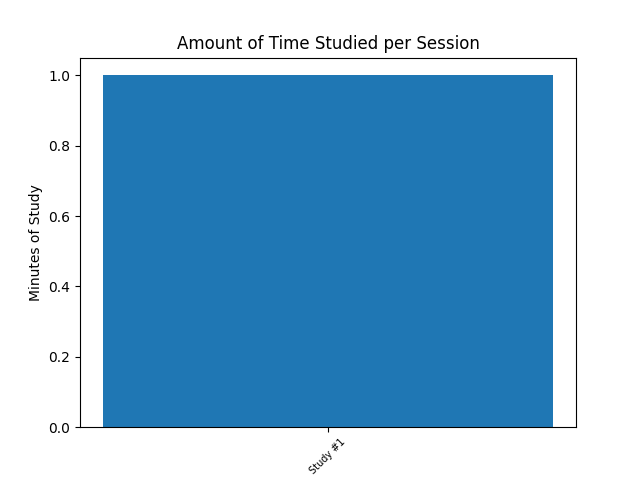
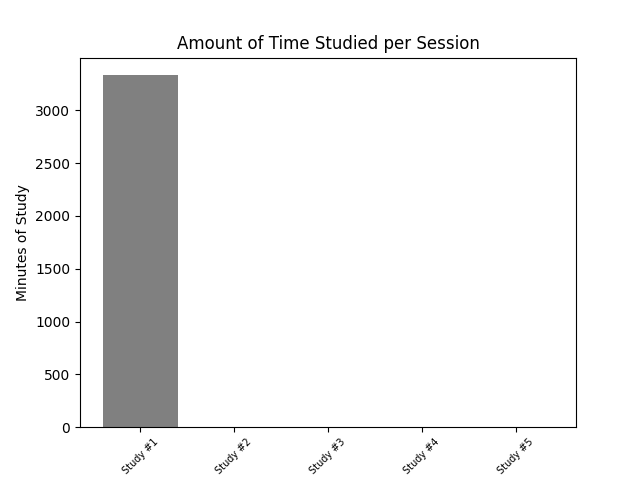
26/07/2022 - Part 2 (Graph)
Here I made the night mode version of the graph displaying my users study data. To achieve this, I created an IF function which changed the parameters of the graph image. I then changed when the graph image was created (when the information page was loaded) so that when the user selects night/light mode in the information page, it will refresh and the respective night/light mode graph image will show.

diff --git a/MainLoop.py b/MainLoop.py
@@ -27,6 +27,7 @@ class App(ttk.Frame):
     def __init__(self, parent):
         self.exit_study_timer = False
         self.exit_break_timer = False
+        self.currentpage = 0
         ttk.Frame.__init__(self)
         # All files/pages formed into a list
         self.availablePages = [
@@ -47,6 +48,7 @@ class App(ttk.Frame):
     def change_page(self, nmbr):
         self.exit_study_timer = True
         self.exit_break_timer = True
+        self.currentpage = nmbr
         # Remove all previous widgets
         for widget in self.winfo_children():
             widget.destroy()
@@ -98,14 +100,29 @@ class App(ttk.Frame):
         self.studysession = []
         for i in range(len(self.datalist)):
             self.studysession.append("Study #" + str(i+1))
-        fig = plt.figure()
-        ax = fig.add_subplot(111)
-        plt.ylabel("Minutes of Study")
-        plt.title("Amount of Time Studied per Session")
-        ax.bar(self.studysession, data)
-        plt.xticks(fontsize=7)
-        ax.set_xticklabels(self.studysession, rotation=45)        
-        fig.savefig("./img/graph.png")
+        if is_darkTheme:
+            fig = plt.figure(facecolor='#333333')
+            ax = fig.add_subplot(111)
+            plt.ylabel("Minutes of Study", color='white')
+            plt.title("Amount of Time Studied per Session", color='white')
+            ax.bar(self.studysession, data, color='white')
+            ax.set_facecolor("#333333")
+            ax.tick_params(axis='x', colors='#FFFFFF')
+            ax.tick_params(axis='y', colors='#FFFFFF')
+            for i in ['top', 'bottom', 'left', 'right']:
+                ax.spines[i].set_color('#FFFFFF')
+            plt.xticks(fontsize=7)
+            ax.set_xticklabels(self.studysession, rotation=45, color='white')    
+            fig.savefig("./img/graph.png")
+        else:    
+            fig = plt.figure()
+            ax = fig.add_subplot(111)
+            plt.ylabel("Minutes of Study")
+            plt.title("Amount of Time Studied per Session")
+            ax.bar(self.studysession, data, color='grey')
+            plt.xticks(fontsize=7)
+            ax.set_xticklabels(self.studysession, rotation=45)        
+            fig.savefig("./img/graph.png")
 
 
     def getdata(self, username):
@@ -124,7 +141,7 @@ class App(ttk.Frame):
             if len(self.datalist) == 0:
                 raise IndexError("Invalid User, No Data Found")
             print("Successfull", self.datalist)
-            self.studygraph(self.datalist)
+            
             self.change_page(5)
         except NameError:
             showwarning(title="Warning", message="User Names are LETTERS only. Please Try Again.")
@@ -198,7 +215,7 @@ class App(ttk.Frame):
 
 # Function for Light/Dark Mode Switch + Theme change
 def switch_upd():
-    global is_darkTheme
+    global is_darkTheme, app
     if is_darkTheme:
         root.tk.call("set_theme", "light")  # make it light mode
         is_darkTheme = not is_darkTheme
@@ -209,6 +226,7 @@ def switch_upd():
         is_darkTheme = not is_darkTheme
         # Change Image to Green Switch
         night_switch.config(image=switch_on, activebackground='gray')
+    app.change_page(app.currentpage)
 
 
 is_darkTheme = True  # Setting initial theme of GUI

diff --git a/Informationpage.py b/Informationpage.py
@@ -6,6 +6,7 @@ from PIL import ImageTk, Image
 # Further Information Page
 class information_page:
     def create(self):
+        self.studygraph(self.datalist)
         self.image = Image.open('./img/graph.png')
         self.graphimage = self.image.resize((380, 260), Image.ANTIALIAS)
         self.photo = ImageTk.PhotoImage(self.graphimage)
